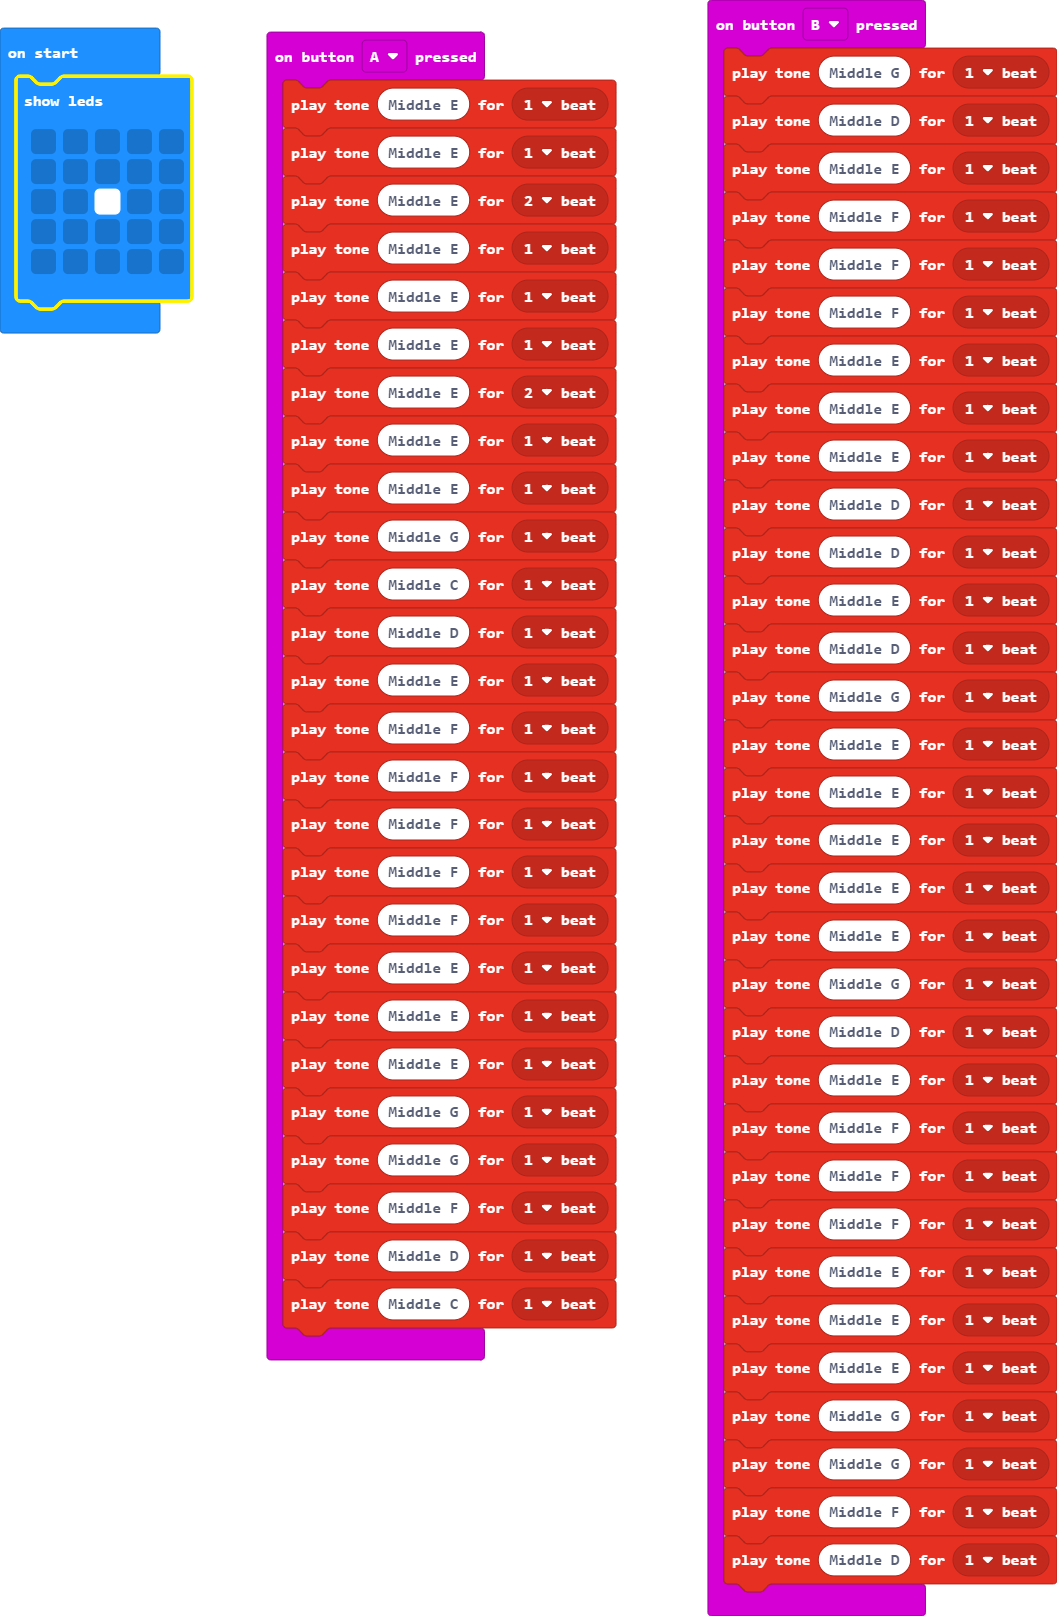
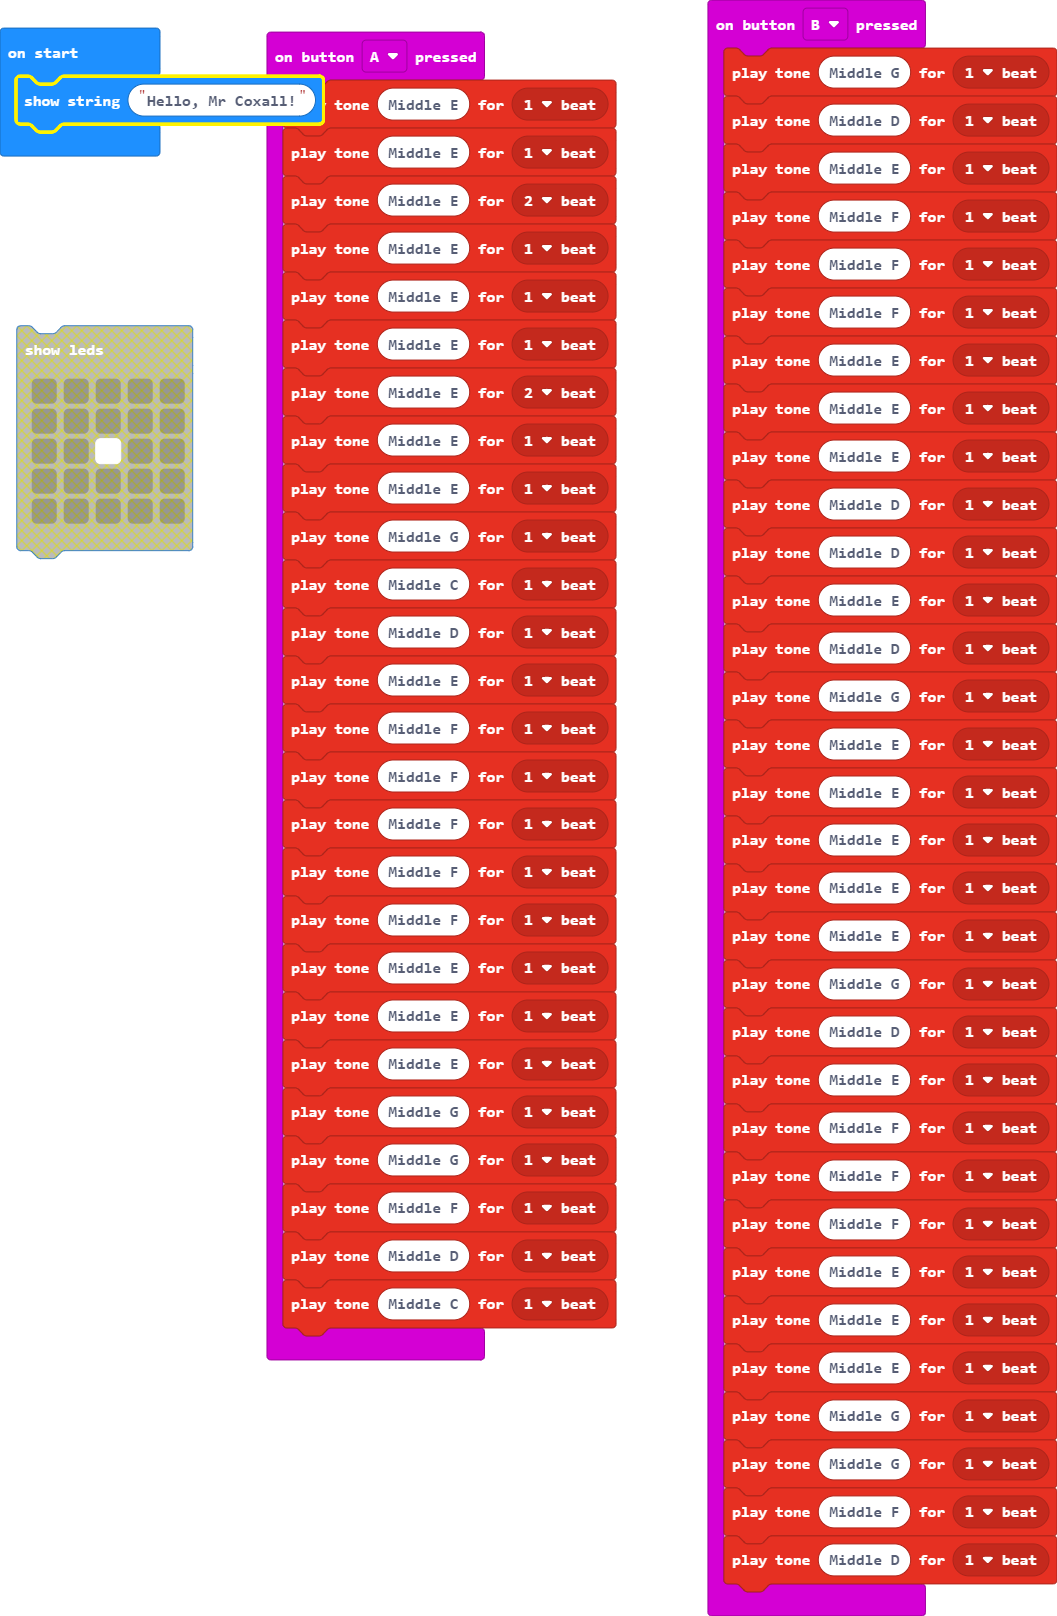
update

Changed region(s): [[0.0, 0.0309, 0.3122, 0.3713]]

diff --git a/main.ts b/main.ts
@@ -60,10 +60,4 @@ input.onButtonPressed(Button.B, function () {
     music.playTone(349, music.beat(BeatFraction.Whole))
     music.playTone(294, music.beat(BeatFraction.Whole))
 })
-basic.showLeds(`
-    . . . . .
-    . . . . .
-    . . # . .
-    . . . . .
-    . . . . .
-    `)
+basic.showString("Hello, Mr Coxall!")

diff --git a/lesson-01.md b/lesson-01.md
@@ -21,7 +21,7 @@ Let's get the micro:bit attached to the computer:
 ![micro:bit getting started image](https://raw.githubusercontent.com/Mr-Coxall/Microbit-Christmas-Decoration/master/docs/static/pair.png)
 
 Let's get the micro:bit connected to the computer:
-- click the "..." at the bottom of the screen, next to the Download button
+- click the "..." at the bottom left of the screen, next to the "Download" button
 - select "Connect device"
 - select your micro:bit ("BBC micro:bit CMSIS-DAP")
 - then select "Connect"
@@ -34,6 +34,11 @@ Let's program the micro:bit:
 - place it inside the ``||basic.onStart()||`` block
 - now add you name after "Hello":
     - Example: ``||basic.showString("Hello, Mr Coxall!")||``
+
+```blocks
+// @highlight
+basic.showString("Hello!")
+```
 
 ## Now let's check our first program!
 
